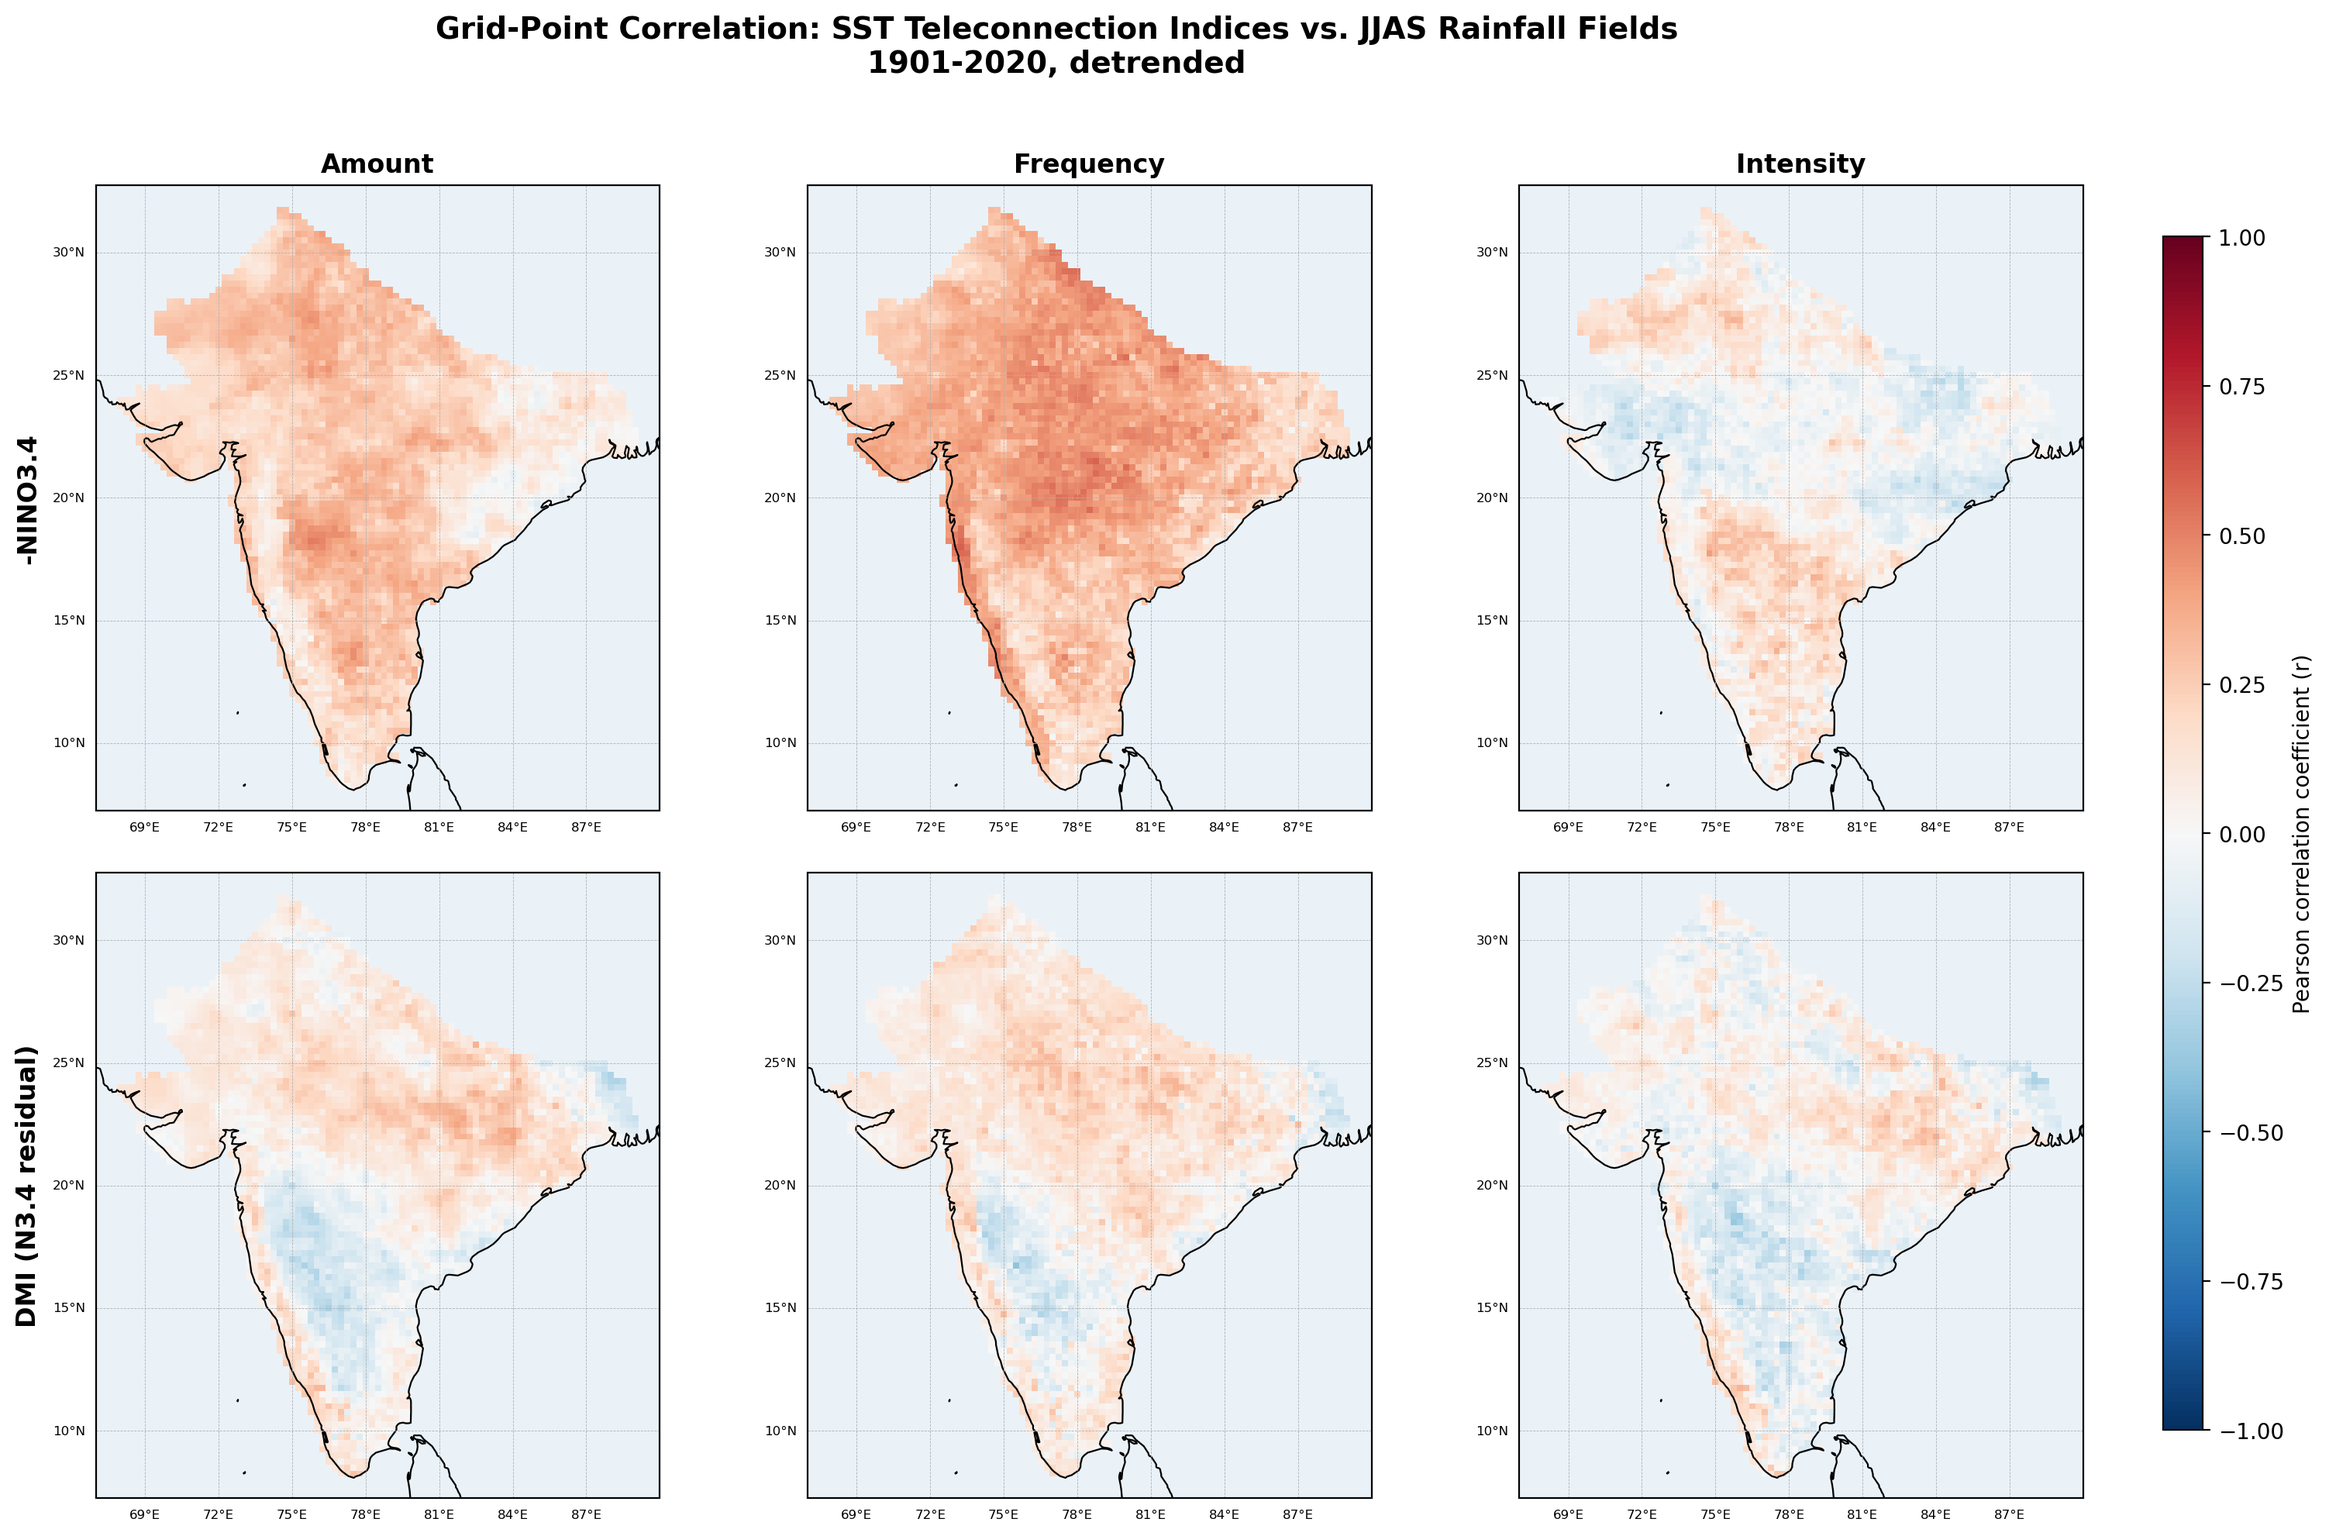
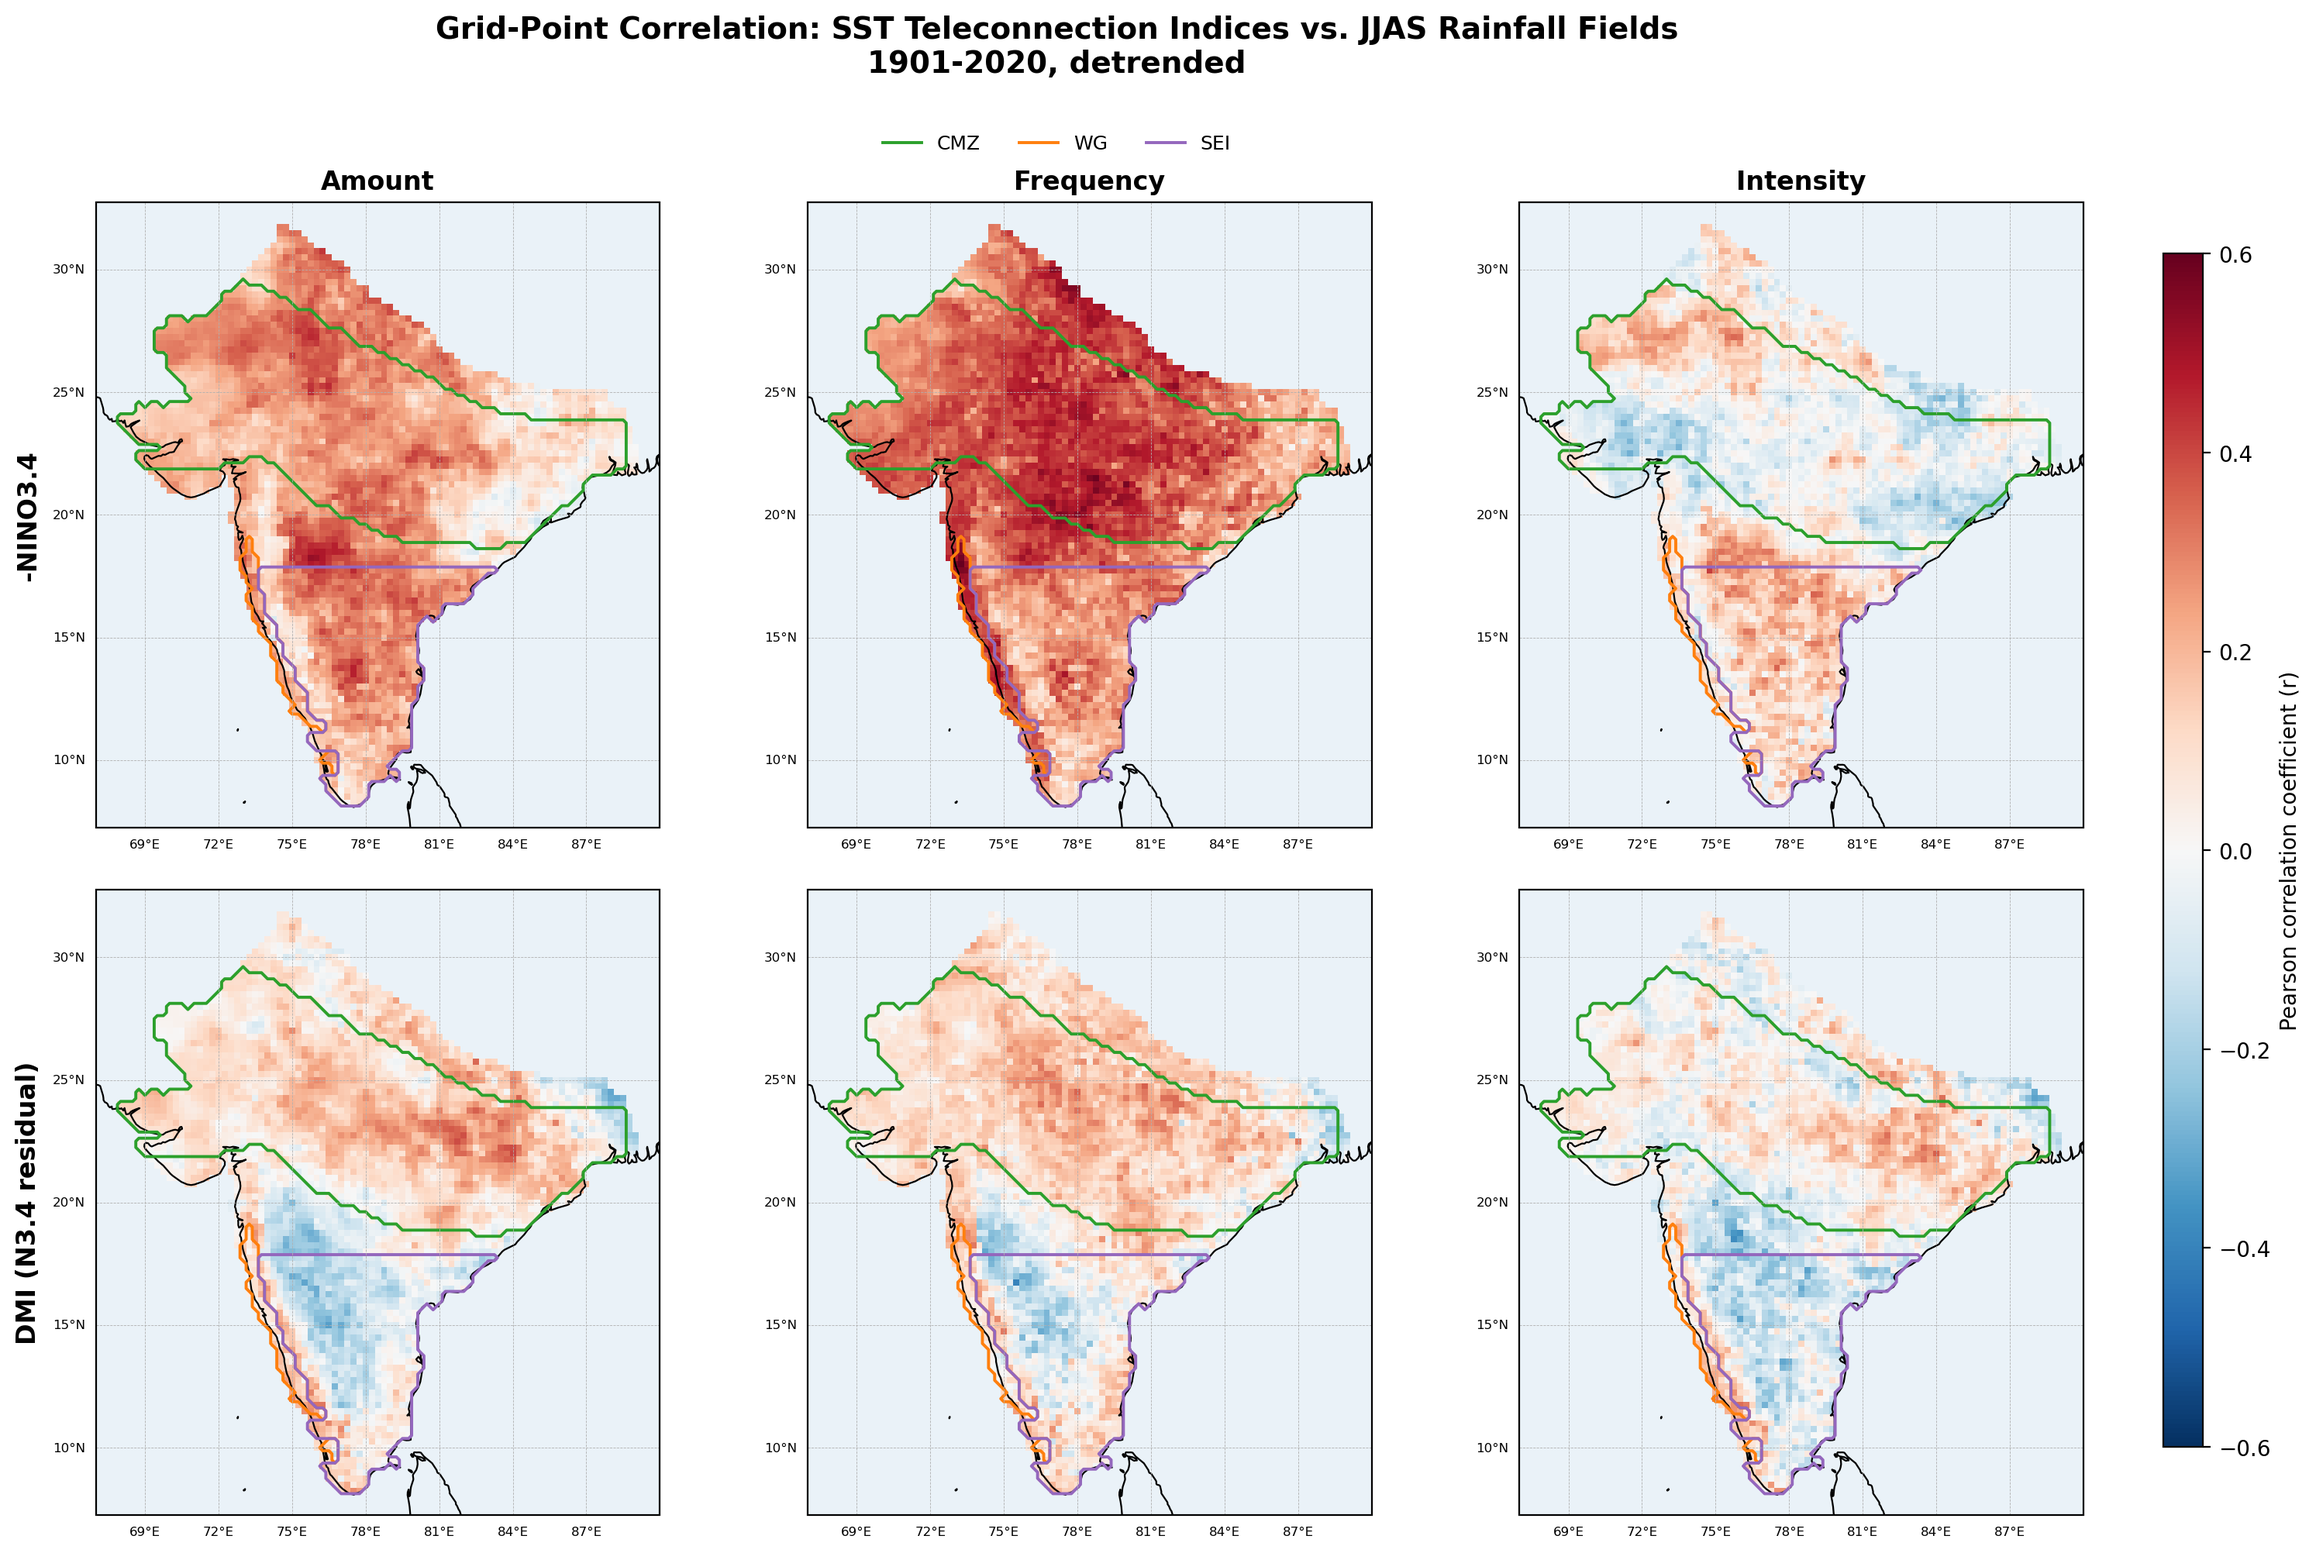
Overlay sub-region boundaries and auto-scale colorbar on teleconnection maps
plot_teleconnection_correlation_maps.py: outline CMZ/WG/SEI on each of the 6
correlation panels (same boundary definitions as
plot_eof_comparison_with_regions.py / compute_subregion_indices.py), and
scale the shared colorbar to [-vmax, vmax] where vmax is the largest |r|
actually plotted (currently ~0.6) instead of a fixed [-1, 1] - these
grid-point correlations rarely get that high, so the fixed scale was washing
out spatial contrast, especially for the weaker intensity and DMI panels.

Updated README.md and CLAUDE.md to describe both changes.

diff --git a/plot_teleconnection_correlation_maps.py b/plot_teleconnection_correlation_maps.py
@@ -4,7 +4,8 @@ indices (-NINO3.4, and DMI with the NINO3.4 signal regressed out - see
 compute_enso_iod_indices.py) and 3 JJAS rainfall fields (amount, rainy-day
 frequency, mean intensity - same per-gridpoint definitions as
 compute_airi_indices.py / compute_moron_eof_analysis.py), laid out as a 2x3
-grid of maps sharing one colorbar.
+grid of maps sharing one colorbar, with the CMZ/WG/SEI sub-India region
+boundaries (see compute_subregion_indices.py) outlined on top.
 
 Each rainfall field is linearly detrended per grid point (matching this
 project's convention elsewhere) before correlating - NOT standardized, since
@@ -12,6 +13,16 @@ Pearson r is invariant to that additional step (standardizing would just
 rescale each grid point's series by a positive constant, which cannot change
 its correlation with anything). The two index series are already detrended in
 enso_iod_indices.csv.
+
+The shared colorbar range is NOT fixed to [-1, 1] - it's set to
+[-vmax, vmax] where vmax is the largest |r| actually plotted across all 6
+panels, so the color scale isn't wasted on correlation magnitudes that never
+occur (these grid-point teleconnection correlations rarely exceed ~0.6-0.7),
+which makes spatial contrast between regions easier to see.
+
+Recomputes the region masks (see compute_subregion_indices.py /
+plot_eof_comparison_with_regions.py) independently rather than importing
+them, consistent with this project's standalone-script convention.
 """
 import xarray as xr
 import numpy as np
@@ -19,22 +30,70 @@ import pandas as pd
 import matplotlib
 matplotlib.use('Agg')
 import matplotlib.pyplot as plt
+import matplotlib.lines as mlines
 import cartopy.crs as ccrs
 import cartopy.feature as cfeature
 from scipy.signal import detrend as scipy_detrend
 
 RAINY_DAY_THRESHOLD = 1  # mm/day, matches compute_airi_indices.py
+WG_RAINY_DAYS_THRESHOLD = 100
 DATA_EXTENT = [67.0, 90.0, 7.25, 32.75]
+
+# (lon, lat) pairs, Gadgil et al. (2019) Fig. 3(a) - see compute_subregion_indices.py.
+# Capped east of CMZ_LON_MAX (does not extend into northeast India); open on
+# the west, bounded only by `valid` (India's actual border with Pakistan and
+# the Arabian Sea coastline in Rajasthan/Gujarat).
+NORTH_BOUNDARY = [
+    (73.2, 29.5), (73.5, 29.4), (73.9, 29.2), (74.3, 29.0), (74.6, 28.8), (74.9, 28.7),
+    (75.2, 28.5), (75.7, 28.3), (76.0, 28.0), (76.3, 27.8), (76.9, 27.6), (77.2, 27.4),
+    (77.5, 27.1), (77.8, 26.9), (78.2, 26.8), (78.5, 26.6), (79.0, 26.4), (79.6, 26.1),
+    (79.9, 26.0), (80.4, 25.8), (80.9, 25.4), (81.3, 25.2), (81.7, 25.0), (82.0, 24.8),
+    (82.3, 24.6), (82.7, 24.5), (83.0, 24.4), (83.3, 24.3), (83.6, 24.2), (84.1, 24.0),
+    (84.5, 24.0), (85.8, 23.9), (86.2, 23.8), (86.5, 23.8), (86.9, 23.9), (87.5, 23.9),
+    (87.8, 23.9), (88.1, 23.9), (88.5, 23.9),
+]
+SOUTH_BOUNDARY = [
+    (72.2, 22.0), (72.5, 22.2), (73.8, 22.3), (74.2, 22.1), (74.5, 21.9), (74.8, 21.7),
+    (75.1, 21.3), (75.4, 21.0), (75.7, 20.7), (76.1, 20.4), (76.7, 20.2), (77.0, 20.0),
+    (77.4, 19.9), (77.7, 19.7), (78.2, 19.5), (78.5, 19.4), (78.8, 19.2), (79.5, 19.0),
+    (79.8, 19.0), (80.7, 18.8), (81.1, 18.8), (81.5, 18.8), (81.8, 18.8), (83.1, 18.7),
+    (83.9, 18.8), (84.5, 19.0), (84.9, 19.2), (87.4, 21.6), (87.7, 21.7), (88.3, 21.8),
+]
+CMZ_LON_MAX = 88.5  # east cap only; west side bounded by `valid` (India's own border)
+SEI_LAT_LIMIT = 18.0
+REGION_COLORS = {'CMZ': '#2ca02c', 'WG': '#ff7f0e', 'SEI': '#9467bd'}
 
 ds = xr.open_dataset('data/rainfall/imd_rain_daily_0p25_monsoon-masked_1901-2020.nc')
 precip = ds['precip']
 jjas = precip.sel(time=precip['time.month'].isin([6, 7, 8, 9]))
 valid = ds['monsoon_mask'].notnull()
+n_years = len(np.unique(jjas['time.year'].values))
 
+lat2d, lon2d = xr.broadcast(ds.lat, ds.lon)
+
+# --- Region masks (see compute_subregion_indices.py for full explanation) ---
+north_lons, north_lats = zip(*sorted(NORTH_BOUNDARY))
+south_lons, south_lats = zip(*sorted(SOUTH_BOUNDARY))
+north_limit = xr.apply_ufunc(np.interp, lon2d, kwargs={'xp': north_lons, 'fp': north_lats})
+south_limit = xr.apply_ufunc(np.interp, lon2d, kwargs={'xp': south_lons, 'fp': south_lats})
+cmz_mask = valid & (lon2d <= CMZ_LON_MAX) & (lat2d >= south_limit) & (lat2d <= north_limit)
+
+rainy_mask_all = jjas > RAINY_DAY_THRESHOLD
+mean_rainy_days = (rainy_mask_all.sum(dim='time') / n_years).where(valid)
+wg_mask = valid & (mean_rainy_days > WG_RAINY_DAYS_THRESHOLD)
+
+wg_lon_where_true = lon2d.where(wg_mask)
+wg_east_edge_per_lat = wg_lon_where_true.max(dim='lon', skipna=True)
+fallback_lon = float(lon2d.where(valid).min())
+wg_east_edge_per_lat = wg_east_edge_per_lat.fillna(fallback_lon)
+sei_mask = valid & (lat2d < SEI_LAT_LIMIT) & (lon2d > wg_east_edge_per_lat)
+
+REGION_MASKS = {'CMZ': cmz_mask, 'WG': wg_mask, 'SEI': sei_mask}
+
+# --- Rainfall fields --------------------------------------------------------
 seasonal_mean = jjas.groupby('time.year').mean('time')
-rainy_mask = jjas > RAINY_DAY_THRESHOLD
-rainy_days_per_gridpoint = rainy_mask.groupby('time.year').sum('time').where(valid)
-intensity_per_gridpoint = jjas.where(rainy_mask).groupby('time.year').mean('time').where(valid)
+rainy_days_per_gridpoint = rainy_mask_all.groupby('time.year').sum('time').where(valid)
+intensity_per_gridpoint = jjas.where(rainy_mask_all).groupby('time.year').mean('time').where(valid)
 
 
 def detrend_field(field):
@@ -57,24 +116,39 @@ INDICES = {
     'DMI (N3.4 residual)': enso_iod['dmi_n34_residual_detrended'],
 }
 
+# --- Compute all 6 correlation fields up front, so the shared colorbar can
+# be scaled to the actual range of |r| plotted instead of the full [-1, 1]. --
+CORRS = {}
+for index_name, index_series in INDICES.items():
+    index_da = xr.DataArray(
+        index_series.values, dims='year', coords={'year': index_series.index.values}
+    )
+    for field_name, field in FIELDS.items():
+        CORRS[(index_name, field_name)] = xr.corr(field, index_da, dim='year')
+
+vmax = max(float(np.abs(c).max()) for c in CORRS.values())
+
 fig, axes = plt.subplots(
     2, 3, figsize=(17, 11), subplot_kw={'projection': ccrs.PlateCarree()}
 )
 
 im = None
-for i, (index_name, index_series) in enumerate(INDICES.items()):
-    index_da = xr.DataArray(
-        index_series.values, dims='year', coords={'year': index_series.index.values}
-    )
-    for j, (field_name, field) in enumerate(FIELDS.items()):
+for i, index_name in enumerate(INDICES):
+    for j, field_name in enumerate(FIELDS):
         ax = axes[i, j]
         ax.set_facecolor('#eaf2f8')
 
-        corr = xr.corr(field, index_da, dim='year')
+        corr = CORRS[(index_name, field_name)]
         im = corr.plot(
             ax=ax, transform=ccrs.PlateCarree(), cmap='RdBu_r',
-            vmin=-1, vmax=1, add_colorbar=False,
+            vmin=-vmax, vmax=vmax, add_colorbar=False,
         )
+
+        for name, mask in REGION_MASKS.items():
+            mask.astype(float).plot.contour(
+                ax=ax, transform=ccrs.PlateCarree(), levels=[0.5],
+                colors=REGION_COLORS[name], linewidths=1.4, add_colorbar=False,
+            )
 
         ax.add_feature(cfeature.COASTLINE, linewidth=0.8)
         ax.set_extent(DATA_EXTENT, crs=ccrs.PlateCarree())
@@ -96,6 +170,13 @@ for i, (index_name, index_series) in enumerate(INDICES.items()):
                 fontweight='bold', va='center', ha='center', rotation=90,
             )
 
+legend_handles = [
+    mlines.Line2D([], [], color=REGION_COLORS[name], linewidth=1.4, label=name)
+    for name in REGION_MASKS
+]
+fig.legend(handles=legend_handles, loc='upper center', ncol=3, fontsize=9,
+           bbox_to_anchor=(0.5, 0.93), frameon=False)
+
 fig.subplots_adjust(right=0.9, wspace=0.15, hspace=0.1)
 cbar_ax = fig.add_axes([0.92, 0.15, 0.015, 0.7])
 cbar = fig.colorbar(im, cax=cbar_ax)
@@ -104,7 +185,7 @@ cbar.set_label('Pearson correlation coefficient (r)')
 fig.suptitle(
     'Grid-Point Correlation: SST Teleconnection Indices vs. JJAS Rainfall Fields\n'
     '1901-2020, detrended',
-    fontsize=14, fontweight='bold',
+    fontsize=14, fontweight='bold', y=0.99,
 )
 plt.savefig('figures/teleconnection_correlation_maps.png', dpi=200, bbox_inches='tight')
-print('Saved figures/teleconnection_correlation_maps.png')
+print(f'Saved figures/teleconnection_correlation_maps.png (color scale: -{vmax:.2f} to {vmax:.2f})')

diff --git a/README.md b/README.md
@@ -138,13 +138,17 @@ large for GitHub. Only code, figures, and documentation are tracked.
   lobe of both rainfall-mean EOF2 and mean-intensity EOF1, while CMZ sits in the positive/red lobe.
 - `plot_teleconnection_correlation_maps.py` — grid-point-by-grid-point Pearson r between the 2 SST
   indices (-NINO3.4, DMI N3.4-residual) and the 3 JJAS rainfall fields (amount, frequency, intensity —
-  same per-gridpoint definitions used throughout this project), as a shared-colorbar 2x3 map grid
-  (`figures/teleconnection_correlation_maps.png`). Each rainfall field is detrended per grid point but
-  NOT standardized before correlating (Pearson r is invariant to per-point rescaling, so this doesn't
-  change results, just skips an unneeded step). -NINO3.4 shows broad, spatially coherent positive
-  correlation with amount and frequency across nearly all of India (the classic ENSO-monsoon
-  teleconnection) but a much weaker, noisier pattern for intensity; DMI's residual shows a patchier,
-  overall weaker signal across all three, consistent with its near-zero AIRI correlation in the matrix.
+  same per-gridpoint definitions used throughout this project), as a shared-colorbar 2x3 map grid with
+  CMZ/WG/SEI region boundaries outlined on top (`figures/teleconnection_correlation_maps.png`). Each
+  rainfall field is detrended per grid point but NOT standardized before correlating (Pearson r is
+  invariant to per-point rescaling, so this doesn't change results, just skips an unneeded step). The
+  shared colorbar is scaled to [-vmax, vmax] where vmax is the largest |r| actually plotted across all 6
+  panels (currently ~0.6), not fixed to [-1, 1] — these grid-point teleconnection correlations rarely
+  get that high, so a fixed full-range scale would wash out the spatial contrast. -NINO3.4 shows broad,
+  spatially coherent positive correlation with amount and frequency across nearly all of India (the
+  classic ENSO-monsoon teleconnection) but a much weaker, noisier pattern for intensity; DMI's residual
+  shows a patchier, overall weaker signal across all three, consistent with its near-zero AIRI
+  correlation in the matrix.
 
 ## Setup
 

diff --git a/CLAUDE.md b/CLAUDE.md
@@ -62,10 +62,11 @@ Two datasets on hand:
   `compute_airi_correlation_matrix.py`, reproducing the source paper's matrix structure.
 - `figures/teleconnection_correlation_maps.png` — grid-point-by-grid-point Pearson r maps (2x3: rows
   -NINO3.4 / DMI N3.4-residual, columns amount/frequency/intensity), built by
-  `plot_teleconnection_correlation_maps.py`. Each rainfall field detrended per grid point (not
-  standardized - Pearson r is invariant to that). -NINO3.4 correlates broadly and coherently with amount
-  and frequency across nearly all of India, weaker/noisier for intensity; DMI residual is patchier and
-  weaker across all three.
+  `plot_teleconnection_correlation_maps.py`, with CMZ/WG/SEI region boundaries overlaid. Each rainfall
+  field detrended per grid point (not standardized - Pearson r is invariant to that). Shared colorbar is
+  scaled to [-vmax, vmax] (vmax = max |r| actually plotted, ~0.6) rather than fixed [-1, 1], for better
+  spatial contrast. -NINO3.4 correlates broadly and coherently with amount and frequency across nearly
+  all of India, weaker/noisier for intensity; DMI residual is patchier and weaker across all three.
 
 `compute_moron_eof_analysis.py` (and `plot_eof_comparison.py`, which recomputes the same fields for a
 subset comparison figure) run EOF decomposition (cos-lat weighted, via the `eofs` library, same
